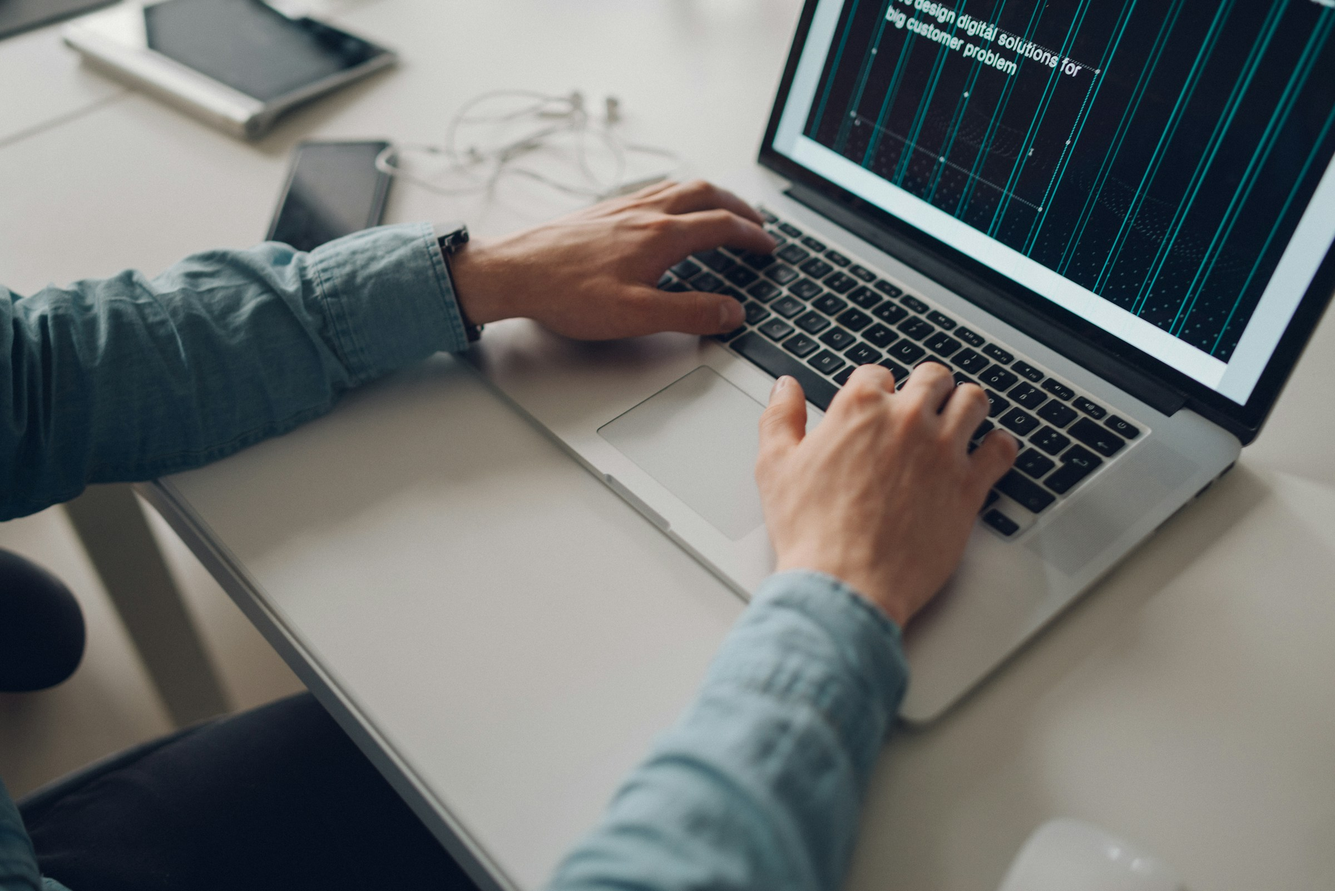
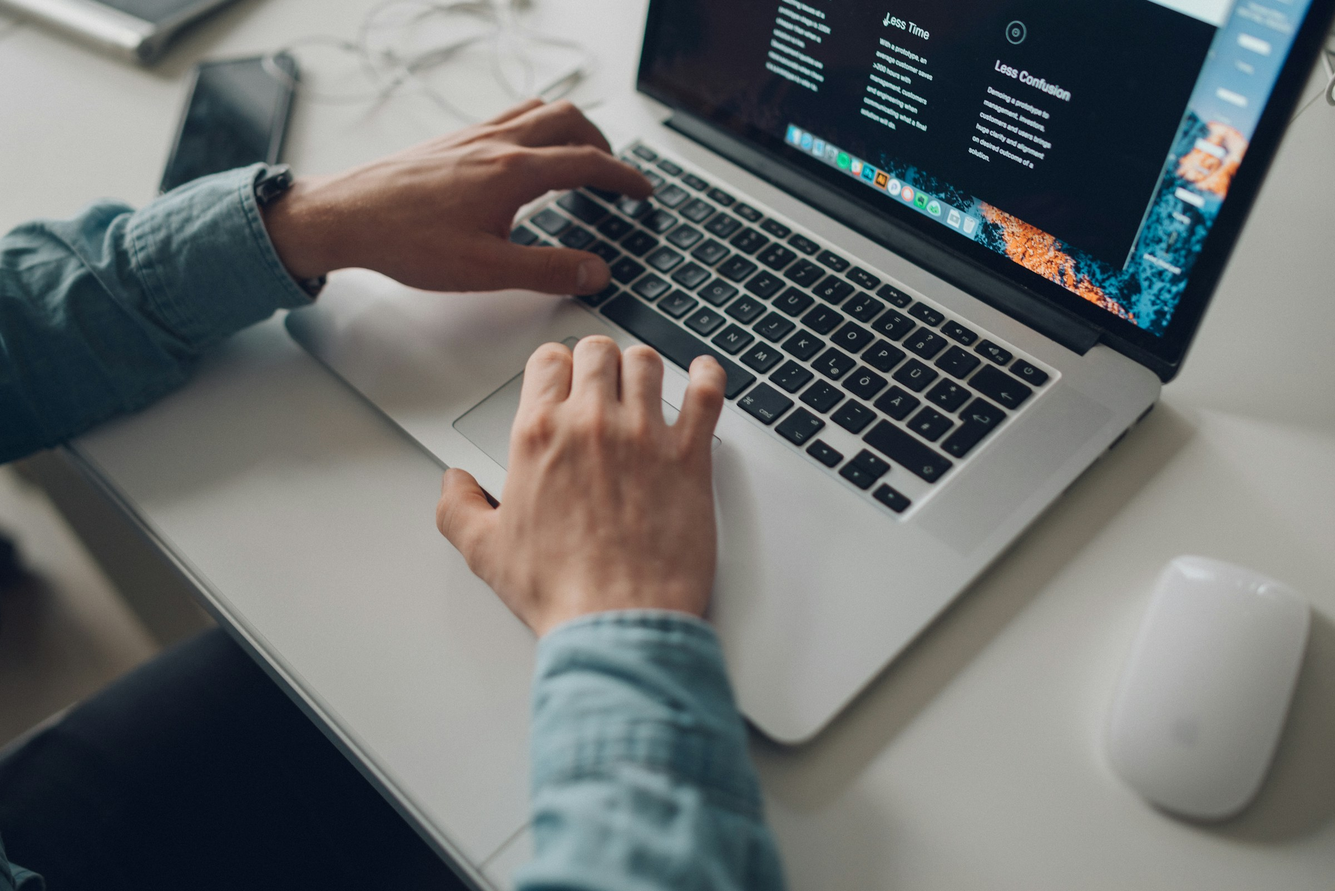
feat: Add Hero image

diff --git a/src/components/top/Hero/index.tsx b/src/components/top/Hero/index.tsx
@@ -1,3 +1,15 @@
+import Image from 'next/image';
+
 export default function Hero() {
-  return <p>Hero</p>;
+  return (
+    <section className='relative h-80 w-full sm:h-[32rem]'>
+      <Image
+        src='/images/hero.jpg'
+        alt='Hero Image'
+        fill
+        className='object-cover object-left'
+        priority
+      />
+    </section>
+  );
 }
